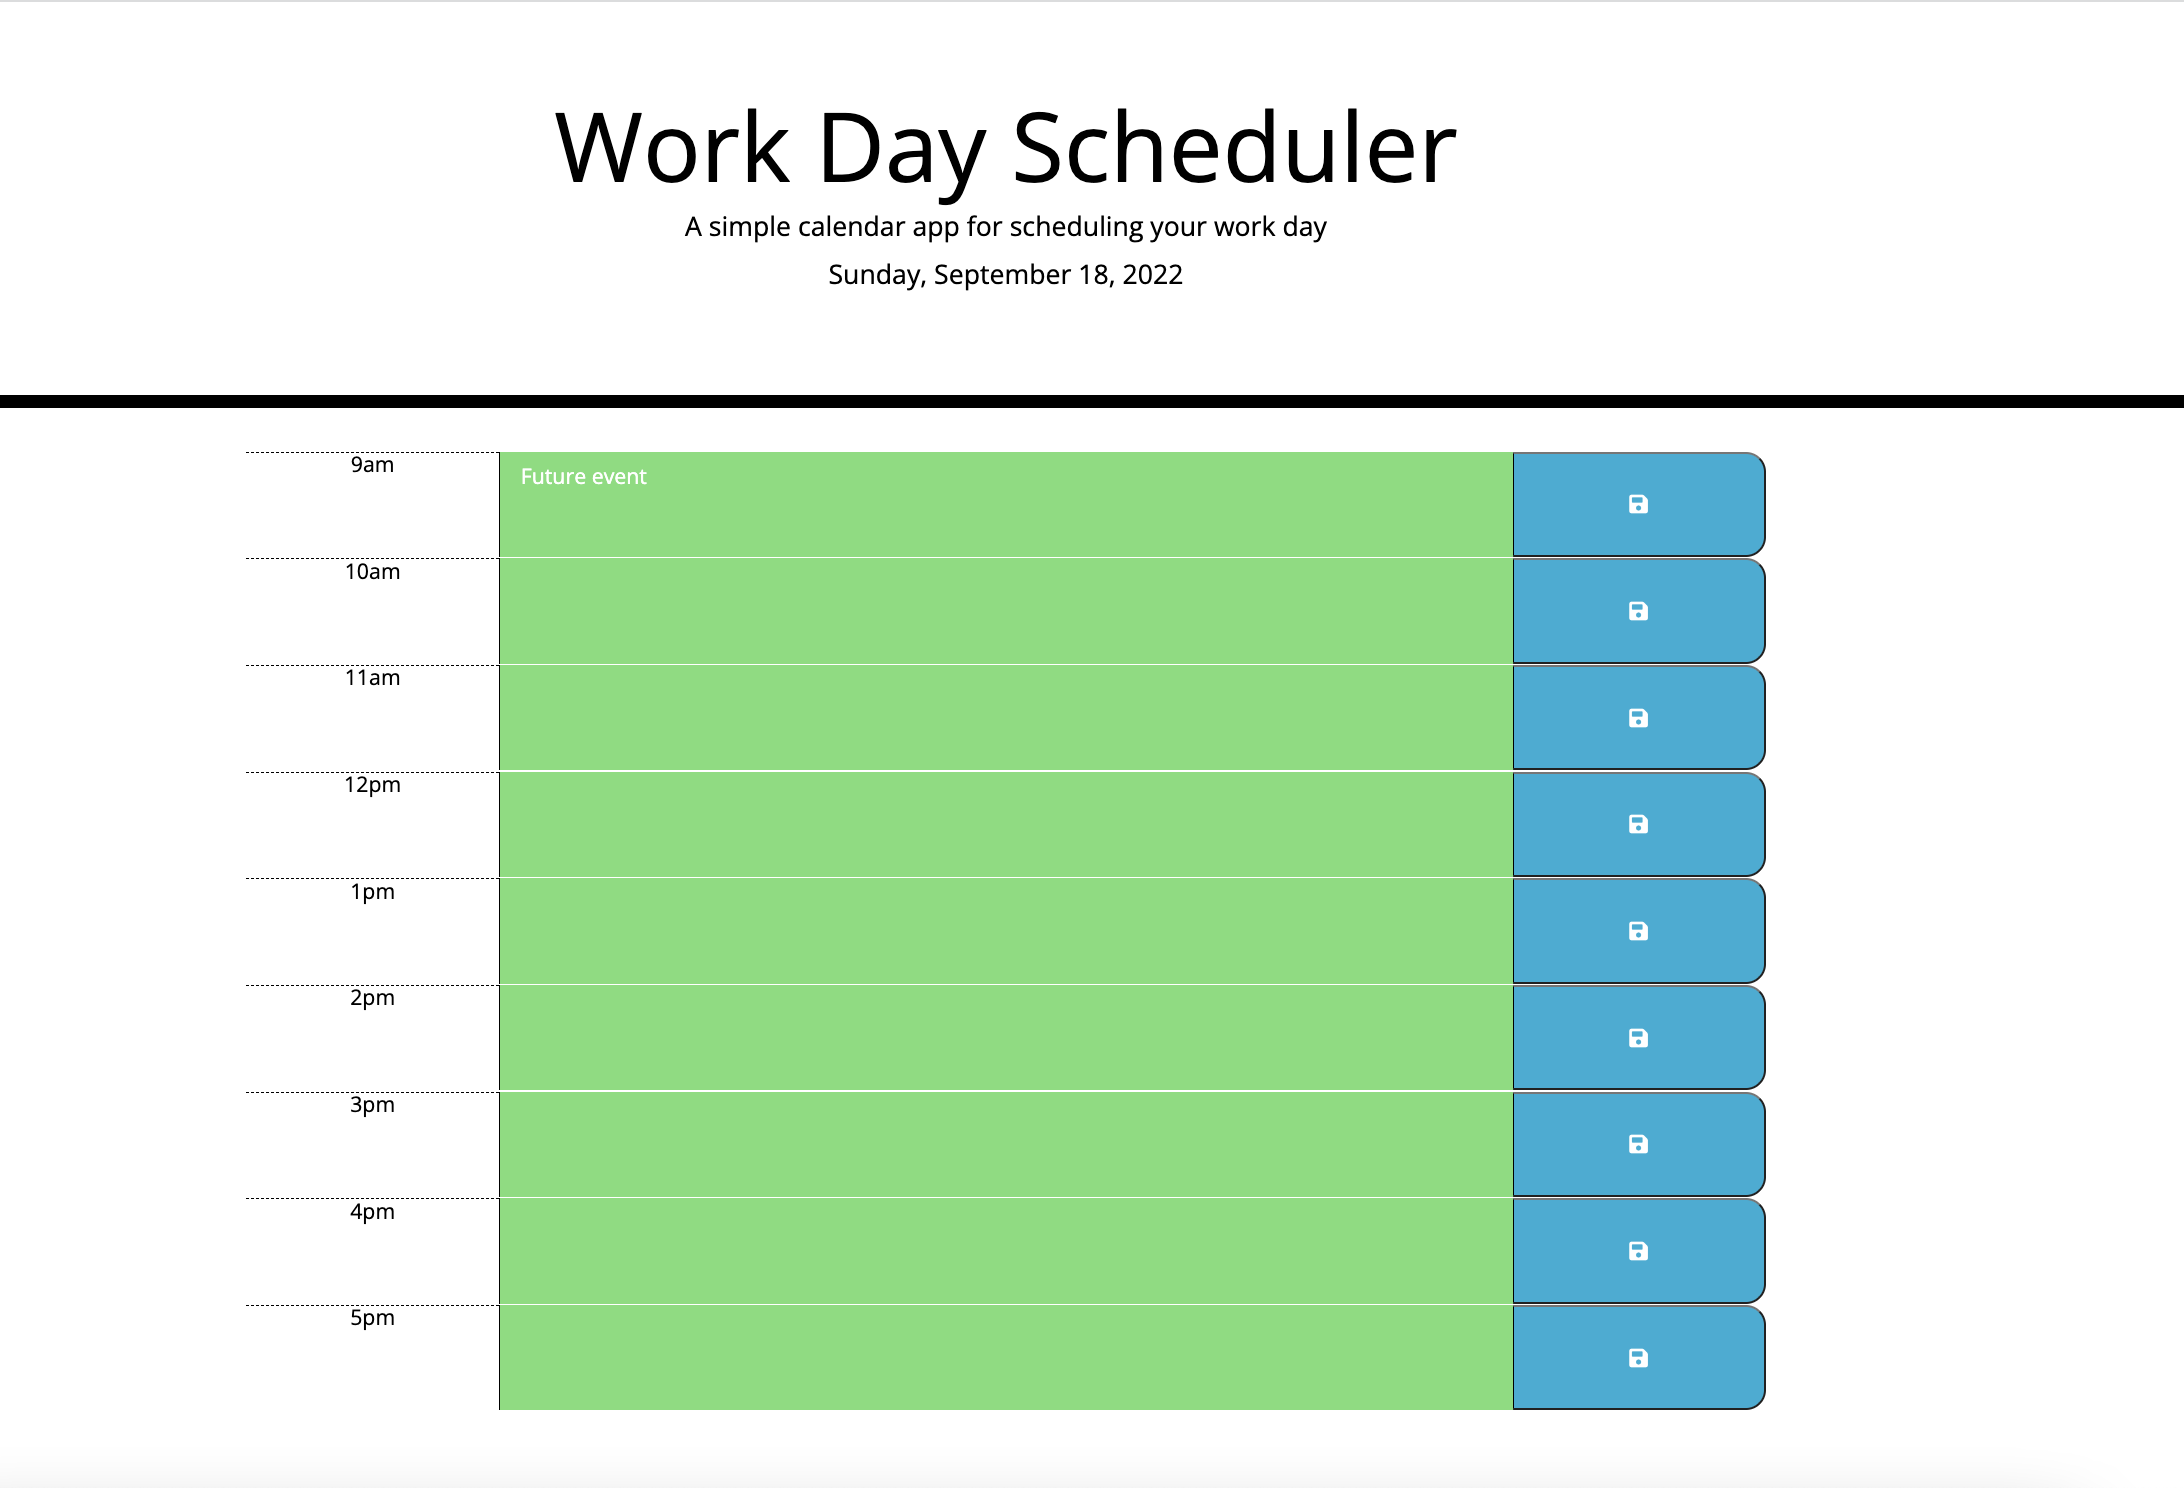
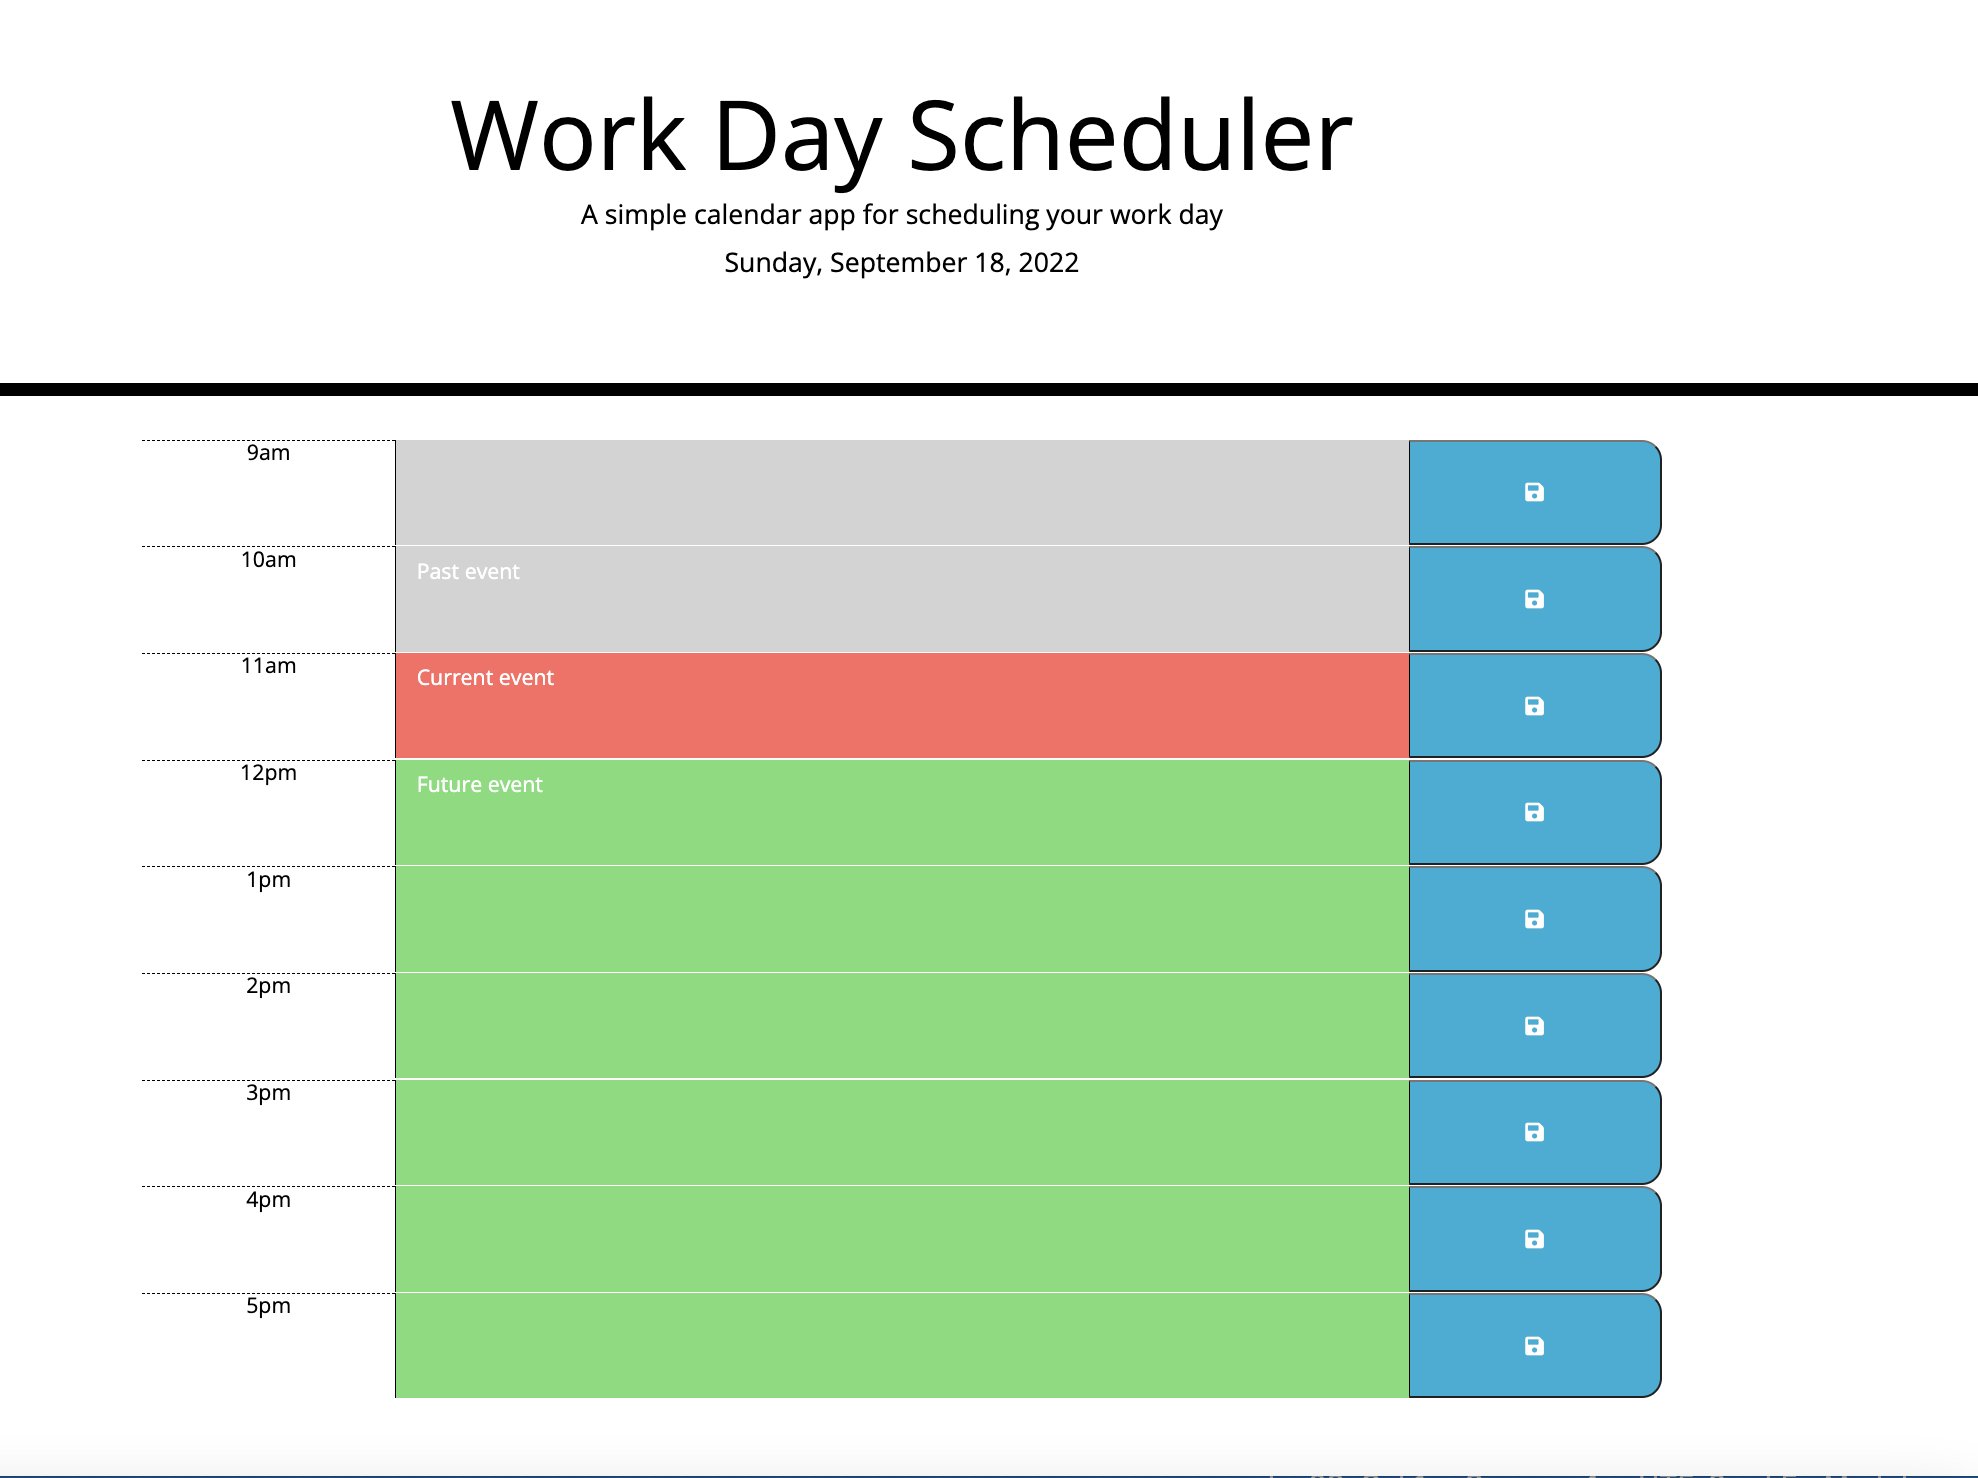
Updated README screenshot, consolidated JavaScript comments

Changed region(s): [[0.0, 0.249, 1.0, 0.9648], [0.2159, 0.0622, 0.6785, 0.1867], [0.0, 0.9959, 1.0, 1.0]]

diff --git a/assets/js/script.js b/assets/js/script.js
@@ -61,8 +61,6 @@ for (var i = 0; i < hours.length; i++) {
   divRow.append(saveBtn);
   saveBtn.append(iButton);
 
-  // TODO: check if these IF statements works tomorrow <  or >
-
   // Changes the color of each text area depending on the current time
   // Current time displays as red
   if (currentHour === hours[i]) {

diff --git a/README.md b/README.md
@@ -14,8 +14,6 @@ N/A
 
 Visit the project website here: https://pham-tracy.github.io/work-day-scheduler/
 
-## Screenshots
-
 ![work-day-scheduler](/assets/images/work-day-scheduler-screenshot.png)
 
 ## Credits
